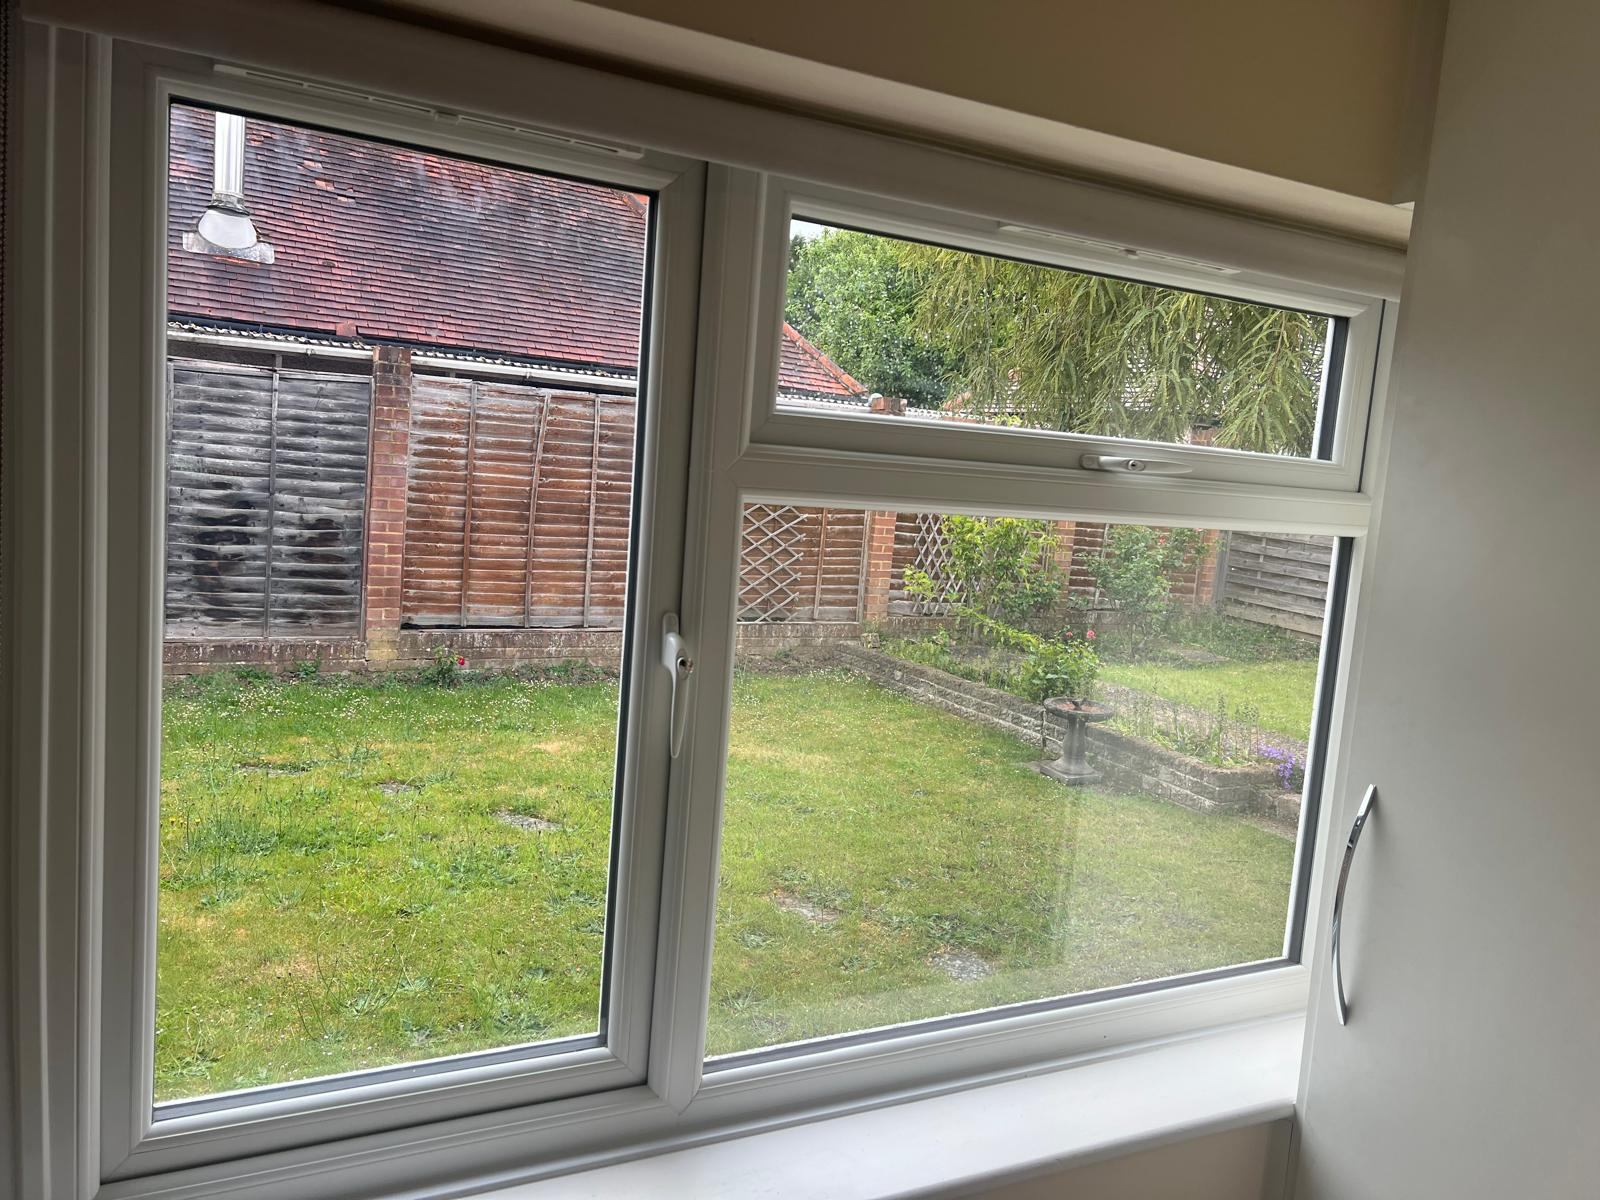
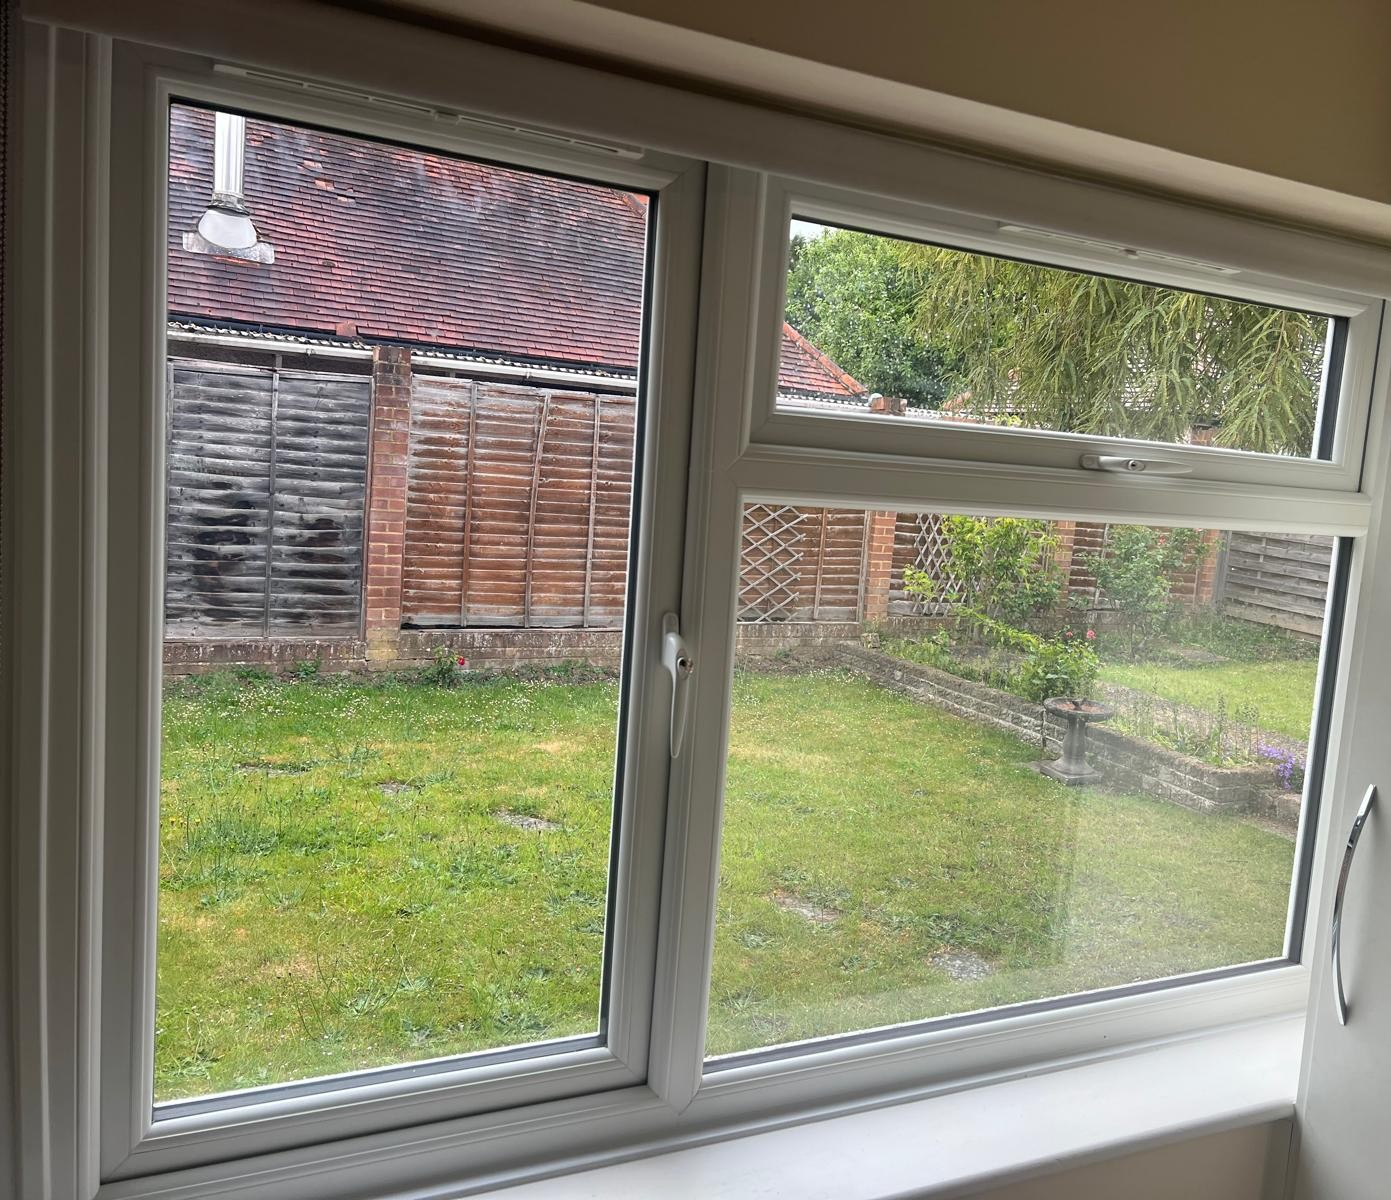
updated

diff --git a/index.html b/index.html
@@ -17,7 +17,7 @@
 
     <meta name="viewport" content="width=device-width, initial-scale=1">
 
-    <link rel="icon" type="image/x-icon" sizes="20x20" href="assets/images/icon/faviconlogo.png">
+    <link rel="icon" type="image/x-icon" sizes="20x20" href="assets/images/icon/finalfav.png">
 
     <!-- Bootstrap -->
     <link rel="stylesheet" type="text/css" href="assets/css/bootstrap-5.3.0.min.css">
@@ -849,15 +849,7 @@
                     <h2 class="title">Our Glazing <span class="outline-text">Works</span> Showcase</h2>
                 </div>
 
-                <!-- Category Filters -->
-                <div class="gallery-filter-wrap">
-                    <div class="gallery-filter-list">
-                        <button class="gallery-filter-btn active" data-filter="all">All Projects</button>
-                        <button class="gallery-filter-btn" data-filter="windows">Windows & Doors</button>
-                        <button class="gallery-filter-btn" data-filter="balustrades">Balustrades</button>
-                        <button class="gallery-filter-btn" data-filter="commercial">Commercial</button>
-                    </div>
-                </div>
+               
 
                 <!-- Gallery Grid -->
                 <div class="gallery-grid">
@@ -1099,7 +1091,8 @@
                                     <div class="news-card">
                                         <a>
                                             <div class="news-img zoomImg">
-                                                <img src="assets/images/WhatsApp Unknown 2026-06-27 at 22.29.36/blog1.jpeg" alt="img">
+                                                <img src="assets/images/WhatsApp Unknown 2026-06-27 at 22.29.36/blog1.jpeg"
+                                                    alt="img">
                                                 <div class="news-badge">
                                                     <span class="date">
                                                         04 April 2025
@@ -1110,9 +1103,9 @@
 
                                         <div class="news-content">
                                             <a>
-                                                <h4 class="news-title line-clamp-2">Modern studio apartment design
-                                                    bedroom and
-                                                    living space</h4>
+                                                <h4 class="news-title line-clamp-2">
+                                                    Premium Black Flush Casement Windows Installation
+                                                </h4>
                                             </a>
                                         </div>
 
@@ -1122,7 +1115,8 @@
                                     <div class="news-card">
                                         <a>
                                             <div class="news-img zoomImg">
-                                                <img src="assets/images/WhatsApp Unknown 2026-06-27 at 22.29.36/blog2.jpeg" alt="img">
+                                                <img src="assets/images/WhatsApp Unknown 2026-06-27 at 22.29.36/blog2.jpeg"
+                                                    alt="img">
                                                 <div class="news-badge">
                                                     <span class="date">
                                                         14 May 2026
@@ -1133,8 +1127,8 @@
 
                                         <div class="news-content">
                                             <a>
-                                                <h4 class="news-title line-clamp-2">Comfortable armchair in a room
-                                                    decorated
+                                                <h4 class="news-title line-clamp-2">
+                                                    Elegant White Heritage Windows for Modern Homes
                                                 </h4>
                                             </a>
                                         </div>
@@ -1145,7 +1139,8 @@
                                     <div class="news-card">
                                         <a>
                                             <div class="news-img zoomImg">
-                                                <img src="assets/images/WhatsApp Unknown 2026-06-27 at 22.29.36/blog3.jpeg" alt="img">
+                                                <img src="assets/images/WhatsApp Unknown 2026-06-27 at 22.29.36/blog3.jpeg"
+                                                    alt="img">
                                                 <div class="news-badge">
                                                     <span class="date">
                                                         23 April 2026
@@ -1156,54 +1151,8 @@
 
                                         <div class="news-content">
                                             <a>
-                                                <h4 class="news-title line-clamp-2">Cafe with coffee tables as sofas
-                                                    plants and
-                                                    shelves</h4>
-                                            </a>
-                                        </div>
-
-                                    </div>
-                                </div>
-                                <div class="swiper-slide">
-                                    <div class="news-card">
-                                        <a>
-                                            <div class="news-img zoomImg">
-                                                <img src="assets/images/WhatsApp Unknown 2026-06-27 at 22.29.36/blog4.jpeg" alt="img">
-                                                <div class="news-badge">
-                                                    <span class="date">
-                                                        26 january 2026
-                                                    </span>
-                                                </div>
-                                            </div>
-                                        </a>
-
-                                        <div class="news-content">
-                                            <a>
-                                                <h4 class="news-title line-clamp-2">Modern studio apartment design
-                                                    bedroom and
-                                                    living space</h4>
-                                            </a>
-                                        </div>
-
-                                    </div>
-                                </div>
-                                <div class="swiper-slide">
-                                    <div class="news-card">
-                                        <a>
-                                            <div class="news-img zoomImg">
-                                                <img src="assets/images/WhatsApp Unknown 2026-06-27 at 22.29.36/blog5.jpeg" alt="img">
-                                                <div class="news-badge">
-                                                    <span class="date">
-                                                        12 February 2026
-                                                    </span>
-                                                </div>
-                                            </div>
-                                        </a>
-
-                                        <div class="news-content">
-                                            <a>
-                                                <h4 class="news-title line-clamp-2">Comfortable armchair in a room
-                                                    decorated
+                                                <h4 class="news-title line-clamp-2">
+                                                    Anthracite Grey Bi-Fold Doors with Slim Frames
                                                 </h4>
                                             </a>
                                         </div>
@@ -1214,10 +1163,11 @@
                                     <div class="news-card">
                                         <a>
                                             <div class="news-img zoomImg">
-                                                <img src="assets/images/WhatsApp Unknown 2026-06-27 at 22.29.36/blog6.jpeg" alt="img">
+                                                <img src="assets/images/WhatsApp Unknown 2026-06-27 at 22.29.36/blog4.jpeg"
+                                                    alt="img">
                                                 <div class="news-badge">
                                                     <span class="date">
-                                                       10 November 2025
+                                                        26 january 2026
                                                     </span>
                                                 </div>
                                             </div>
@@ -1225,9 +1175,57 @@
 
                                         <div class="news-content">
                                             <a>
-                                                <h4 class="news-title line-clamp-2">Cafe with coffee tables as sofas
-                                                    plants and
-                                                    shelves</h4>
+                                                <h4 class="news-title line-clamp-2">
+                                                    Energy Efficient White uPVC Windows Installation
+                                                </h4>
+                                            </a>
+                                        </div>
+
+                                    </div>
+                                </div>
+                                <div class="swiper-slide">
+                                    <div class="news-card">
+                                        <a>
+                                            <div class="news-img zoomImg">
+                                                <img src="assets/images/WhatsApp Unknown 2026-06-27 at 22.29.36/blog5.jpeg"
+                                                    alt="img">
+                                                <div class="news-badge">
+                                                    <span class="date">
+                                                        12 February 2026
+                                                    </span>
+                                                </div>
+                                            </div>
+                                        </a>
+
+                                        <div class="news-content">
+                                            <a>
+                                                <h4 class="news-title line-clamp-2">
+                                                    Large Sliding Patio Doors for Bright Living Spaces
+                                                </h4>
+                                            </a>
+                                        </div>
+
+                                    </div>
+                                </div>
+                                <div class="swiper-slide">
+                                    <div class="news-card">
+                                        <a>
+                                            <div class="news-img zoomImg">
+                                                <img src="assets/images/WhatsApp Unknown 2026-06-27 at 22.29.36/blog6.jpeg"
+                                                    alt="img">
+                                                <div class="news-badge">
+                                                    <span class="date">
+                                                        10 November 2025
+                                                    </span>
+                                                </div>
+                                            </div>
+                                        </a>
+
+                                        <div class="news-content">
+                                            <a>
+                                                <h4 class="news-title line-clamp-2">
+                                                    Secure Composite Front Door with Side Glass Panels
+                                                </h4>
                                             </a>
                                         </div>
 
@@ -1372,8 +1370,7 @@
                         <div class="col-xl-6">
                             <div class="footer-menu-section">
                                 <div class="logo logo-large light-logo">
-                                    <a><img src="assets/images/logo/pnglogo.png" alt="logo"
-                                            style="height: 80px; width: 350px;"></a>
+                                    <a><img src="assets/images/logo/pnglogo.png" alt="logo"></a>
                                 </div>
                                 <div class="footer-social-section">
                                     <h4 class="title">Follow Us</h4>
@@ -1434,16 +1431,18 @@
                         <div class="col-xl-2 offset-xl-1 col-lg-4 col-sm-6">
                             <div class="single-footer-caption">
                                 <div class="footer-tittle">
-                                    <h4 class="title">My Accounts</h4>
+                                    <h4 class="title">Our Services</h4>
                                     <ul class="listing">
-                                        <li class="single-list"><a class="single">My
-                                                Orders</a></li>
-                                        <li class="single-list"><a class="single">My Credit
-                                                Slips</a></li>
-                                        <li class="single-list"><a class="single">My
-                                                Addresses</a></li>
-                                        <li class="single-list"><a class="single">My Personal
-                                                Info</a></li>
+                                        <li class="single-list"><a class="single">Window Manufacturing
+                                            </a></li>
+                                        <li class="single-list"><a class="single">Aluminum & uPVC Windows
+                                            </a></li>
+                                        <li class="single-list"><a class="single">Sliding & Casement Systems
+                                            </a></li>
+                                        <li class="single-list"><a class="single">Premium Wooden Doors
+                                            </a></li>
+                                        <li class="single-list"><a class="single">Repair & Maintenance
+                                            </a></li>
                                     </ul>
                                 </div>
                             </div>

diff --git a/assets/css/portfolio.css b/assets/css/portfolio.css
@@ -1286,10 +1286,7 @@
   box-shadow: 0 10px 30px rgba(19, 23, 43, 0.05);
 }
 
-.image-slice:hover {
-  transform: translateY(-8px);
-  box-shadow: 0 18px 40px rgba(19, 23, 43, 0.18);
-}
+
 
 .image-slice img {
   position: absolute;
@@ -1300,9 +1297,7 @@
   transition: transform 1.2s cubic-bezier(0.25, 0.8, 0.25, 1);
 }
 
-.image-slice:hover img {
-  transform: scale(1.05);
-}
+
 
 /* Left Slice */
 .slice-1 {

diff --git a/assets/css/main-style.css b/assets/css/main-style.css
@@ -18324,7 +18324,7 @@ input[type=number] {
 }
 
 .logo-large img {
-  max-width: 250px;
+  max-width: 280px;
 }
 @media (max-width: 1199px) {
   .logo-large img {